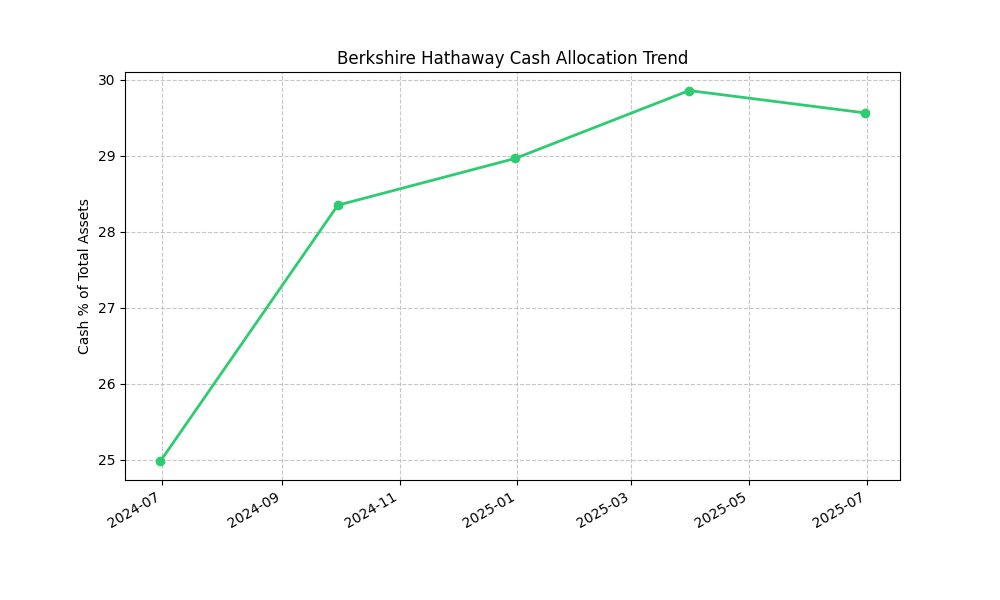
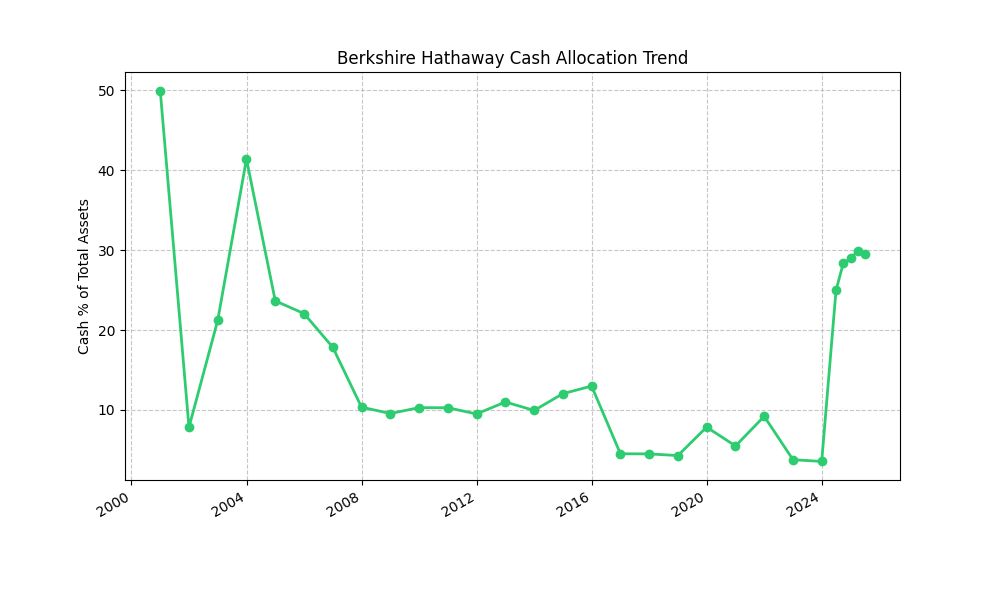
Extend Berkshire Hathaway cash trend history to 2000

diff --git a/guru.html b/guru.html
@@ -153,7 +153,7 @@
     <div class="container">
         <div class="header">
             <h1>Guru Portfolio Tracker</h1>
-            <div class="date">Report generated on: 2025-12-22</div>
+            <div class="date">Report generated on: 2025-12-28</div>
         </div>
 
         <div class="nav">
@@ -647,7 +647,7 @@
         <div
             style="margin-top: 30px; padding: 10px; background: #f8f9fa; border: 1px solid #ddd; font-size: 0.8em; color: #555;">
             <strong>Debug Info:</strong><br>
-            Generated: 2025-12-22<br>
+            Generated: 2025-12-28<br>
             
             Warren Buffett (Berkshire Hathaway): 41 holdings found.<br>
             

diff --git a/fetch_guru.py b/fetch_guru.py
@@ -120,23 +120,72 @@ def get_cash_position(ticker="BRK-B"):
         print(f"Error fetching cash for {ticker}: {e}")
         return 0
 
+# Hardcoded historical data for Berkshire Hathaway (Year-End)
+# Sources: Macrotrends, CompaniesMarketCap, Annual Reports
+BRK_HISTORICAL_DATA = [
+    {'date': '2000-12-31', 'cash': 67.84, 'assets': 135.79},
+    {'date': '2001-12-31', 'cash': 12.74, 'assets': 162.75},
+    {'date': '2002-12-31', 'cash': 35.95, 'assets': 169.54},
+    {'date': '2003-12-31', 'cash': 74.73, 'assets': 180.55},
+    {'date': '2004-12-31', 'cash': 44.66, 'assets': 188.87},
+    {'date': '2005-12-31', 'cash': 43.74, 'assets': 198.32},
+    {'date': '2006-12-31', 'cash': 44.32, 'assets': 248.43},
+    {'date': '2007-12-31', 'cash': 28.26, 'assets': 273.16},
+    {'date': '2008-12-31', 'cash': 25.54, 'assets': 267.39},
+    {'date': '2009-12-31', 'cash': 30.56, 'assets': 297.11},
+    {'date': '2010-12-31', 'cash': 38.23, 'assets': 372.22},
+    {'date': '2011-12-31', 'cash': 37.30, 'assets': 392.64},
+    {'date': '2012-12-31', 'cash': 46.99, 'assets': 427.45},
+    {'date': '2013-12-31', 'cash': 48.19, 'assets': 484.93},
+    {'date': '2014-12-31', 'cash': 63.27, 'assets': 525.86},
+    {'date': '2015-12-31', 'cash': 71.73, 'assets': 552.25},
+    {'date': '2016-12-31', 'cash': 28.05, 'assets': 620.85},
+    {'date': '2017-12-31', 'cash': 31.58, 'assets': 702.10},
+    {'date': '2018-12-31', 'cash': 30.36, 'assets': 707.79},
+    {'date': '2019-12-31', 'cash': 64.18, 'assets': 817.73},
+    {'date': '2020-12-31', 'cash': 47.99, 'assets': 873.73},
+    {'date': '2021-12-31', 'cash': 88.18, 'assets': 958.78},
+    {'date': '2022-12-31', 'cash': 35.81, 'assets': 948.47},
+    {'date': '2023-12-31', 'cash': 38.02, 'assets': 1069.98},
+    # 2024 data will be fetched from yfinance if available, or we can add estimate
+    {'date': '2024-12-31', 'cash': 334.20, 'assets': 1153.88}, # Estimate/Record
+]
+
 def get_cash_history(ticker="BRK-B"):
     """
     Fetches historical cash allocation percentage (Cash + Short Term Inv / Total Assets).
+    Merges hardcoded history (2000-2023) with recent yfinance data.
     Returns a list of dictionaries: [{'date': date, 'cash_pct': pct}, ...]
     """
     if not ticker:
         return []
         
+    history = []
+    
+    # 1. Add Hardcoded History (for BRK only)
+    if "BRK" in ticker:
+        for item in BRK_HISTORICAL_DATA:
+            pct = (item['cash'] / item['assets']) * 100
+            history.append({
+                'date': pd.Timestamp(item['date']),
+                'cash_pct': pct,
+                'cash_val': item['cash'] * 1e9, # Convert to actual value
+                'total_assets': item['assets'] * 1e9
+            })
+            
     try:
-        print(f"Fetching cash history for {ticker}...")
+        print(f"Fetching recent cash history for {ticker}...")
         stock = yf.Ticker(ticker)
         bs = stock.quarterly_balance_sheet
         
-        history = []
-        
+        # 2. Fetch Recent Data from yfinance
+        recent_history = []
         # Iterate through columns (dates)
         for date in bs.columns:
+            # Skip if date is already in history (approximate check by year/month)
+            if any(h['date'].year == date.year and h['date'].month == date.month for h in history):
+                continue
+                
             # 1. Get Cash
             cash = 0
             cash_keys = ['Cash And Cash Equivalents', 'Cash & Cash Equivalents', 'Cash']
@@ -160,20 +209,22 @@ def get_cash_history(ticker="BRK-B"):
                 
             if total_assets > 0:
                 pct = (cash / total_assets) * 100
-                history.append({
+                recent_history.append({
                     'date': date,
                     'cash_pct': pct,
                     'cash_val': cash,
                     'total_assets': total_assets
                 })
         
-        # Sort by date ascending
+        # Merge and Sort
+        history.extend(recent_history)
         history.sort(key=lambda x: x['date'])
+        
         return history
         
     except Exception as e:
         print(f"Error fetching cash history for {ticker}: {e}")
-        return []
+        return history # Return whatever we have (hardcoded)
 
 
 if __name__ == "__main__":

diff --git a/run_guru_only.py b/run_guru_only.py
@@ -1,4 +1,5 @@
 import main
+import os
 
 if __name__ == "__main__":
     main.run_guru_analysis("guru.html")
